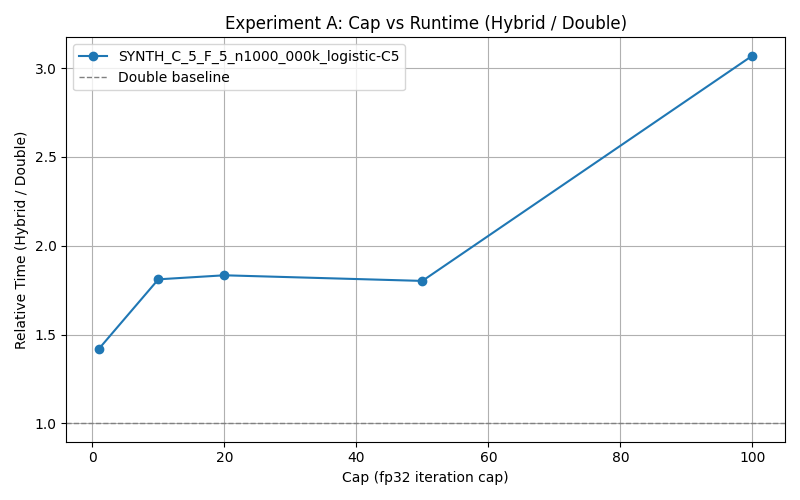
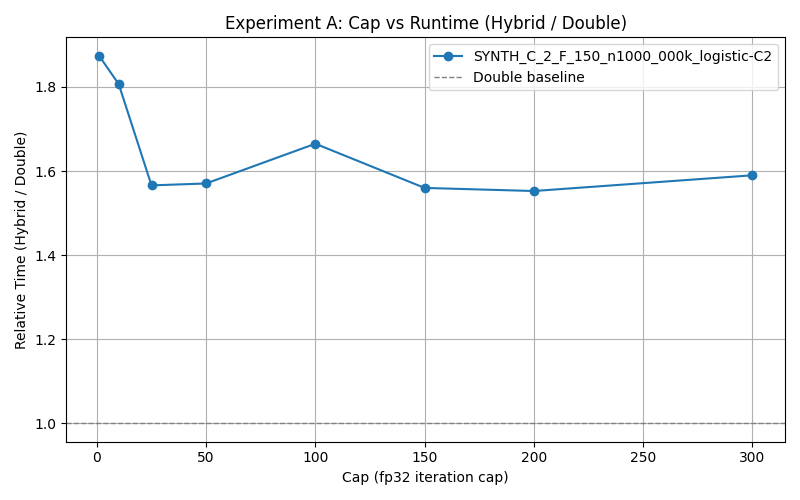
push

diff --git a/experiments/logreg_precision.py b/experiments/logreg_precision.py
@@ -1,34 +1,10 @@
 # experiments/logreg_precision.py
 import time
 import numpy as np
-from sklearn.linear_model import LogisticRegression
+from aoclda.linear_model import linmod
 from sklearn.metrics import accuracy_score
-
-# --- Pure double precision run ---
-def run_full_double(X, y, n_classes, max_iter, tol):
-    X64 = np.asarray(X, dtype=np.float64)
-    t0 = time.perf_counter()
-    clf = LogisticRegression(
-        max_iter=max_iter, tol=tol,
-        solver="lbfgs", multi_class="auto"
-    )
-    clf.fit(X64, y)
-    elapsed = time.perf_counter() - t0
-    y_pred = clf.predict(X64)
-    acc = accuracy_score(y, y_pred)
-    mem_MB = X64.nbytes / 1e6
-    return clf, 0, _iter_scalar(clf.n_iter_), elapsed, mem_MB, acc
-
-
-def _iter_scalar(n_iter_attr):
-    arr = np.asarray(n_iter_attr)
-    return int(arr.max()) if arr.ndim else int(arr)
 
 # experiments/logreg_precision.py
-import time
-import numpy as np
-from sklearn.linear_model import LogisticRegression
-from sklearn.metrics import accuracy_score
 
 def _iter_scalar(n_iter_attr) -> int:
     """scikit can return int (binary) or array (multinomial); normalize to int."""
@@ -37,14 +13,13 @@ def _iter_scalar(n_iter_attr) -> int:
 
 # --- Pure double precision run (baseline) ---
 def run_full_double(X, y, n_classes, max_iter, tol):
-    X64 = np.asarray(X, dtype=np.float64, order="C")
+    X64 = np.asarray(X, dtype=np.float64)
     t0 = time.perf_counter()
-    clf = LogisticRegression(
-        solver="lbfgs", multi_class="auto",
-        max_iter=int(max_iter), tol=float(tol),
-        warm_start=False
+    clf = linmod("logistic",
+        solver="lbfgs", 
+        max_iter=int(max_iter), precision='double'
     )
-    clf.fit(X64, y)
+    clf.fit(X64, y, tol=tol)
     elapsed = time.perf_counter() - t0
 
     it_double = _iter_scalar(getattr(clf, "n_iter_", 0))
@@ -54,10 +29,11 @@ def run_full_double(X, y, n_classes, max_iter, tol):
     # Return tuple your experiments expect: (model, it_single, it_double, time, mem, acc)
     return clf, 0, it_double, elapsed, mem_MB, acc
 
+# need to set it up as a classification task
 # --- Hybrid: fp32 probe (capped) → fp64 fresh run (remaining budget) ---
 def run_hybrid(X, y, n_classes, max_iter_total, tol_single, tol_double, single_iter_cap):
-    X32 = np.asarray(X, dtype=np.float32, order="C")
-    X64 = np.asarray(X, dtype=np.float64, order="C")
+    X32 = np.asarray(X, dtype=np.float32)
+    X64 = np.asarray(X, dtype=np.float64)
 
     # cap can be None; clamp to [0, max_iter_total]
     if single_iter_cap is None:
@@ -67,24 +43,22 @@ def run_hybrid(X, y, n_classes, max_iter_total, tol_single, tol_double, single_i
 
     # --- Stage 1: fp32 probe (no warm_start; AOCL-safe) ---
     t0 = time.perf_counter()
-    clf_fp32 = LogisticRegression(
-        solver="lbfgs", multi_class="auto",
-        max_iter=cap, tol=float(tol_single),
-        warm_start=False
+    clf_fp32 = linmod("logistic",
+        solver="lbfgs", 
+        max_iter=cap, precision='single'
     )
-    clf_fp32.fit(X32, y)
+    clf_fp32.fit(X32, y, tol=tol_single)
     t_single = time.perf_counter() - t0
     it_single = _iter_scalar(getattr(clf_fp32, "n_iter_", 0))
 
     # --- Stage 2: fp64 from scratch with remaining budget ---
     remaining = int(max(1, int(max_iter_total) - it_single))
     t1 = time.perf_counter()
-    clf_fp64 = LogisticRegression(
-        solver="lbfgs", multi_class="auto",
-        max_iter=remaining, tol=float(tol_double),
-        warm_start=False
+    clf_fp64 = linmod("logistic",
+        solver="lbfgs", 
+        max_iter=remaining, precision='double'
     )
-    clf_fp64.fit(X64, y)
+    clf_fp64.fit(X64, y, tol_double)
     t_double = time.perf_counter() - t1
     it_double = _iter_scalar(getattr(clf_fp64, "n_iter_", 0))
 

diff --git a/linear_logistic.py b/linear_logistic.py
@@ -1,0 +1,31 @@
+import sys
+from aoclda.linear_model import linmod
+import numpy as np
+
+
+def linmod_example():
+    """
+    Linear regression with an intercept variable
+    """
+    X = np.array([[1, 1], [2, 3], [3, 5], [4, 8], [5, 7], [6, 9]], dtype=np.float32)
+    y = np.array([3., 6.5, 10., 12., 13., 19.], dtype=np.float32)
+    lmod = linmod("logistic", solver="lbfgs", max_iter=10, precision='single')
+    lmod.fit(X, y , tol=1e-6)
+
+    # Extract coefficients
+    coef = lmod.coef
+    print(f"coefficients: [{coef[0]:.3f}, {coef[1]:.3f}, {coef[2]:.3f}]")
+    print('expected    : [2.350, 0.350, 0.433]\n')
+
+    # # Evaluate model on new data
+    # X_test = np.array([[1, 1.1], [2.5, 3], [7, 9]], dtype=np.float32)
+    # pred = lmod.predict(X_test)
+    # print(f"predictions: [{pred[0]:.3f}, {pred[1]:.3f}, {pred[2]:.3f}]")
+    # print('expected   : [3.168  7.358 20.0333]')
+
+
+if __name__ == "__main__":
+    try:
+        linmod_example()
+    except RuntimeError:
+        sys.exit(1)

diff --git a/LOGREG_main.py b/LOGREG_main.py
@@ -1,8 +1,6 @@
 # LOGREG_main.py
 import pathlib
 import pandas as pd
-from aoclda.sklearn import skpatch
-skpatch()
 
 from datasets.utils import generate_synthetic_data, synth_specs, lr_columns_A, lr_columns_B
 from experiments.logreg_experiments import run_experiment_A, run_experiment_B
@@ -14,12 +12,12 @@ RESULTS_DIR.mkdir(exist_ok=True)
 # Config
 config = {
     "n_repeats": 3,
-    "cap_grid": [1, 10, 25, 50, 100, 150, 200, 300],
-    "tol_fixed_A": 1e-2,
+    "cap_grid": [1, 2, 4, 6, 8, 10, 12 ,14, 16, 18, 20],
+    "tol_fixed_A": 1e-3,
     "max_iter_A": 300,
     "max_iter_B": 200,
-    "tol_double_B": 1e-11,
-    "tol_single_grid": [1e-4, 1e-5, 1e-6, 1e-7, 1e-8, 1e-10],
+    "tol_double_B": 1e-3,
+    "tol_single_grid": [1e-2, 10e-3, 8e-3, 6e-3, 4e-3, 2e-3, 1e-3, 1e-4],
 }
 
 rows_A, rows_B = [], []

diff --git a/datasets/utils.py b/datasets/utils.py
@@ -76,10 +76,10 @@ enet_specs = [
 
 synth_specs = [
     # number of samples; number of features, number of clusters, random seeds
-    # ("SYNTH_C_5_F_5_n1000_000k_logistic", 1000_000, 150,  5, 0),
-    ("SYNTH_C_80_F_5_n1000_000k_kmeans", 10000_00, 5, 80, 1),
-    ("SYNTH_C_40_F_5_n1000_000k_kmeans", 10000_00, 5, 40, 1),
-    ("SYNTH_C_5_F_5_n1000_000k_kmeans", 10000_00, 5, 5, 1),
+    ("SYNTH_C_2_F_150_n1000k_logistic", 1000_000, 2,  2, 0),
+    # ("SYNTH_C_80_F_5_n1000_000k_kmeans", 10000_00, 5, 80, 1),
+    # ("SYNTH_C_40_F_5_n1000_000k_kmeans", 10000_00, 5, 40, 1),
+    # ("SYNTH_C_5_F_5_n1000_000k_kmeans", 10000_00, 5, 5, 1),
 ]
 
 
